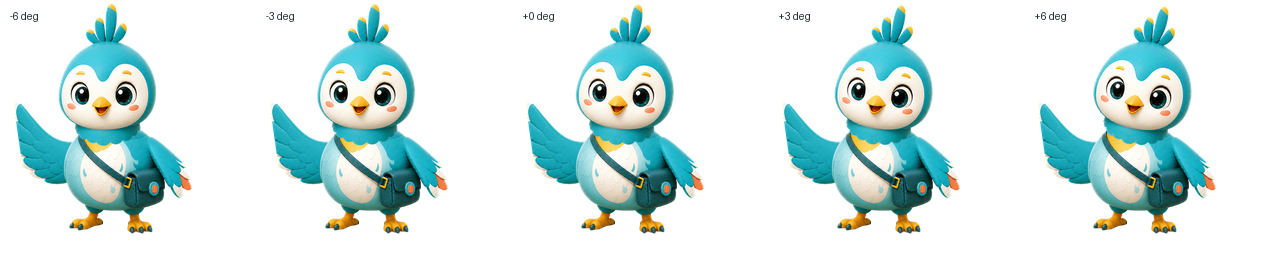
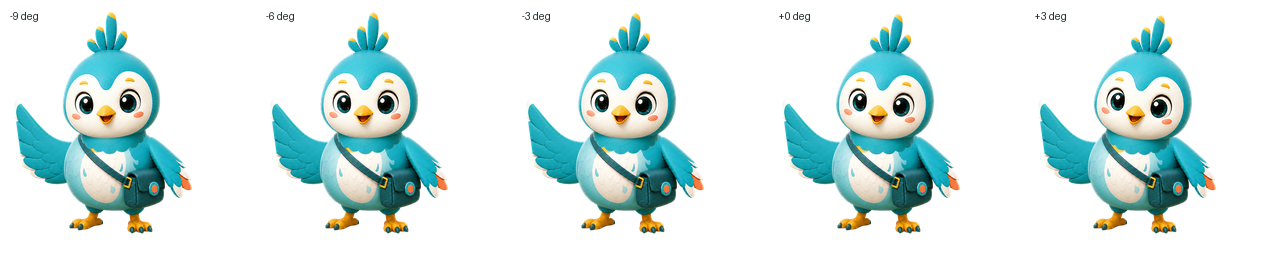
Apply reviewed mascot neck anchors

diff --git a/docs/design/mascot-transparent/animation-rig-v4-calibration.html b/docs/design/mascot-transparent/animation-rig-v4-calibration.html
@@ -16,13 +16,13 @@
       --red: #e23d35;
       --rig-scale: 0.84;
       --rig-y: 4.6875%;
-      --head-x: -2.34375%;
-      --head-y: -18.75%;
-      --head-angle: 0deg;
-      --torso-anchor-x: 42.96875%;
-      --torso-anchor-y: 52.734375%;
-      --head-anchor-x: 45.3125%;
-      --head-anchor-y: 71.484375%;
+      --head-x: -0.390625%;
+      --head-y: -14.2578125%;
+      --head-angle: -3deg;
+      --torso-anchor-x: 40.4296875%;
+      --torso-anchor-y: 49.21875%;
+      --head-anchor-x: 40.8203125%;
+      --head-anchor-y: 63.4765625%;
     }
 
     * {
@@ -417,27 +417,27 @@
       <fieldset>
         <legend>身体锚点</legend>
         <label class="number-control" for="torso-x">X
-          <input id="torso-x" type="number" min="0" max="512" value="220" step="1">
+          <input id="torso-x" type="number" min="0" max="512" value="207" step="1">
         </label>
         <label class="number-control" for="torso-y">Y
-          <input id="torso-y" type="number" min="0" max="512" value="270" step="1">
+          <input id="torso-y" type="number" min="0" max="512" value="252" step="1">
         </label>
       </fieldset>
 
       <fieldset>
         <legend>头部锚点</legend>
         <label class="number-control" for="head-anchor-x">X
-          <input id="head-anchor-x" type="number" min="0" max="512" value="232" step="1">
+          <input id="head-anchor-x" type="number" min="0" max="512" value="209" step="1">
         </label>
         <label class="number-control" for="head-anchor-y">Y
-          <input id="head-anchor-y" type="number" min="0" max="512" value="366" step="1">
+          <input id="head-anchor-y" type="number" min="0" max="512" value="325" step="1">
         </label>
       </fieldset>
 
       <div class="range-control">
         <label for="angle">头部角度</label>
-        <input id="angle" type="range" min="-6" max="6" value="0" step="0.5">
-        <output for="angle">0deg</output>
+        <input id="angle" type="range" min="-9" max="3" value="-3" step="0.5">
+        <output for="angle">-3deg</output>
       </div>
 
       <div class="range-control">
@@ -453,7 +453,7 @@
       </div>
 
       <div class="status">
-        自动头部位移：<strong id="transform">translate(-12, -96)</strong><br>
+        自动头部位移：<strong id="transform">translate(-2, -73)</strong><br>
         锚点差值：<strong id="delta">X 0 / Y 0</strong>
       </div>
 
@@ -475,11 +475,11 @@
     const controls = [...document.querySelectorAll("input")];
     const modeButtons = [...document.querySelectorAll(".mode-button[data-mode]")];
     const defaults = {
-      "torso-x": 220,
-      "torso-y": 270,
-      "head-anchor-x": 232,
-      "head-anchor-y": 366,
-      angle: 0,
+      "torso-x": 207,
+      "torso-y": 252,
+      "head-anchor-x": 209,
+      "head-anchor-y": 325,
+      angle: -3,
       "rig-scale": 0.84,
       "rig-y": 24,
     };

diff --git a/docs/design/mascot-transparent/animation-rig-v4-demo.html b/docs/design/mascot-transparent/animation-rig-v4-demo.html
@@ -16,8 +16,9 @@
       --teal-dark: #0e6870;
       --rig-scale: 0.84;
       --rig-y: 4.6875%;
-      --head-x: -2.34375%;
-      --head-y: -18.75%;
+      --head-x: -0.390625%;
+      --head-y: -14.2578125%;
+      --head-rest-angle: -3deg;
     }
 
     * {
@@ -131,7 +132,8 @@
     }
 
     .head-group {
-      transform-origin: 45.3125% 71.4844%;
+      transform: rotate(var(--head-rest-angle));
+      transform-origin: 40.8203125% 63.4765625%;
     }
 
     .head {
@@ -224,9 +226,9 @@
     }
 
     @keyframes head-turn {
-      0%, 100% { transform: rotate(0); }
-      30% { transform: rotate(-6deg); }
-      68% { transform: rotate(6deg); }
+      0%, 100% { transform: rotate(-3deg); }
+      30% { transform: rotate(-9deg); }
+      68% { transform: rotate(3deg); }
     }
 
     @keyframes blink {

diff --git a/docs/design/mascot-transparent/animation-rig-v4/render_previews.py b/docs/design/mascot-transparent/animation-rig-v4/render_previews.py
@@ -31,6 +31,7 @@ HEAD_OFFSET = (
     HEAD["restTransform"]["translateY"],
 )
 HEAD_PIVOT = (HEAD["pivot"]["x"], HEAD["pivot"]["y"])
+REST_HEAD_ANGLE = HEAD.get("restAngleDeg", 0)
 WING_PIVOT = (
     LAYERS["left_wing"]["pivot"]["x"],
     LAYERS["left_wing"]["pivot"]["y"],
@@ -81,10 +82,12 @@ def fit_to_canvas(scene: Image.Image) -> Image.Image:
 
 
 def render_scene(
-    head_angle: float = 0,
+    head_angle: float | None = None,
     wing_angle: float = -8,
     include: tuple[str, ...] = ("left_wing", "torso", "head"),
 ) -> Image.Image:
+    if head_angle is None:
+        head_angle = REST_HEAD_ANGLE
     scene = Image.new("RGBA", (LARGE, LARGE), (0, 0, 0, 0))
     if "left_wing" in include:
         scene.alpha_composite(
@@ -133,7 +136,9 @@ def save_gif(path: Path, frames: list[Image.Image], size: int, duration: int) ->
 
 
 def render_angle_strip() -> None:
-    angles = [-6, -3, 0, 3, 6]
+    action = next(item for item in MANIFEST["actions"] if item["id"] == "head_turn")
+    relative_min, relative_max = action["relativeTestedAngleRangeDeg"]
+    angles = [REST_HEAD_ANGLE + value for value in [relative_min, -3, 0, 3, relative_max]]
     strip = Image.new("RGB", (256 * len(angles), 256), "white")
     for index, angle in enumerate(angles):
         frame = render_scene(head_angle=angle).resize((256, 256), Image.Resampling.LANCZOS)
@@ -157,7 +162,7 @@ def render_anchor_calibration() -> None:
     head_point = map_point(head_anchor, HEAD_OFFSET)
 
     panels = [
-        ("1. Torso neckSeat (220, 270)", render_scene(include=("torso",))),
+        (f"1. Torso neckSeat {torso_anchor}", render_scene(include=("torso",))),
         ("2. Head neckBase + rest transform", render_scene(include=("head",))),
         ("3. Snapped anchors: delta (0, 0)", render_scene()),
     ]
@@ -189,7 +194,7 @@ def main() -> None:
     combined_frames = []
     for index in range(frame_count):
         phase = index / (frame_count - 1)
-        head_angle = 6 * math.sin(phase * math.tau)
+        head_angle = REST_HEAD_ANGLE + 6 * math.sin(phase * math.tau)
         turn_frames.append(render_scene(head_angle=head_angle))
         wing_angle = -8 + 18 * math.sin(phase * math.tau * 2)
         combined_frames.append(render_scene(head_angle=head_angle, wing_angle=wing_angle))

diff --git a/docs/design/mascot-transparent/README.md b/docs/design/mascot-transparent/README.md
@@ -79,11 +79,11 @@
 - `animation-rig-v4/anchor-calibration.png`：头部颈底与身体颈口的锚点定位图。
 - `animation-rig-v4-calibration.html`：可直接点击设置身体/头部锚点，并自动计算位移的接缝校准页。
 - `animation-rig-v4/render_previews.py`：从清单锚点参数重新生成静态图和 GIF，避免预览与运行时参数漂移。
-- `animation-rig-v4/head-angle-preview.png`：`-6deg` 到 `6deg` 的颈部连接检查。
+- `animation-rig-v4/head-angle-preview.png`：以默认 `-3deg` 为中心、相对 `-6deg` 到 `6deg` 的颈部连接检查。
 - `animation-rig-v4/combined-preview.gif`：挥手与转头同时播放的组合预览。
 - `animation-rig-v4/manifest.json`：渲染顺序、转轴、动作事件和测试角度。
 
-V4 使用两个明确接点定位：头部 `neckBase=(232,366)`，身体 `neckSeat=(220,270)`。运行时先用两点差值得到头部位移 `(-12,-96)`，再对完整骨架应用 `scale=0.84`、`translateY=24` 的画布适配。不要再用整张图的透明像素重心推算头部位置。
+V4 使用两个明确接点定位：头部 `neckBase=(209,325)`，身体 `neckSeat=(207,252)`。运行时先用两点差值得到头部位移 `(-2,-73)`，以 `-3deg` 为默认角度，再对完整骨架应用 `scale=0.84`、`translateY=24` 的画布适配。不要再用整张图的透明像素重心推算头部位置。
 
 校准页中的数值使用 512x512 逻辑画布坐标，页面渲染时转换为百分比，因此桌面和移动窗口下不会因 CSS 像素尺寸变化而漂移。分别进入“身体锚点”和“头部锚点”模式点击图片，再到“合成预览”检查结果；“复制参数”会生成可直接回填到清单的 JSON。
 
